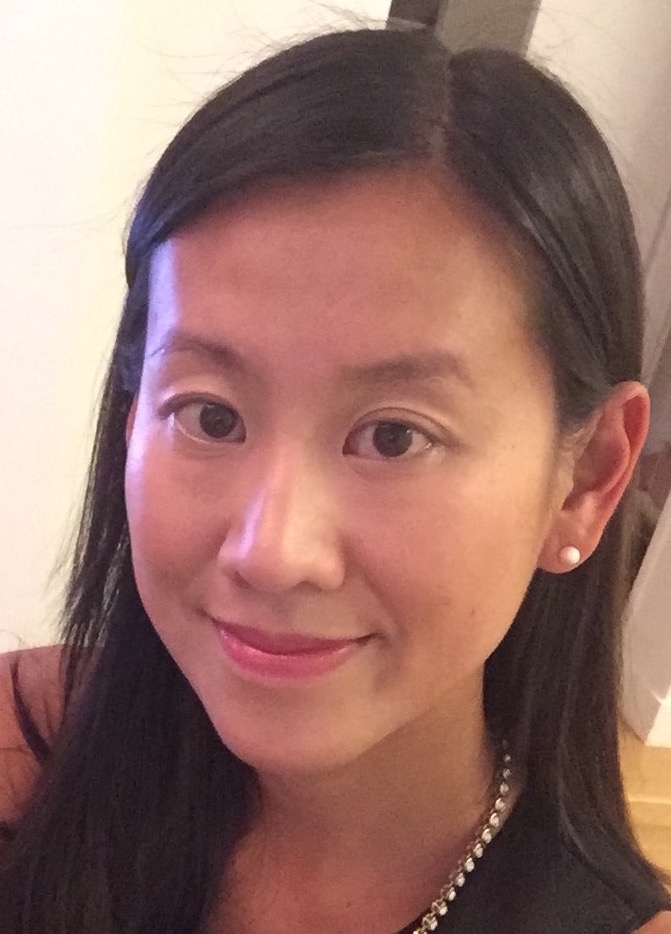
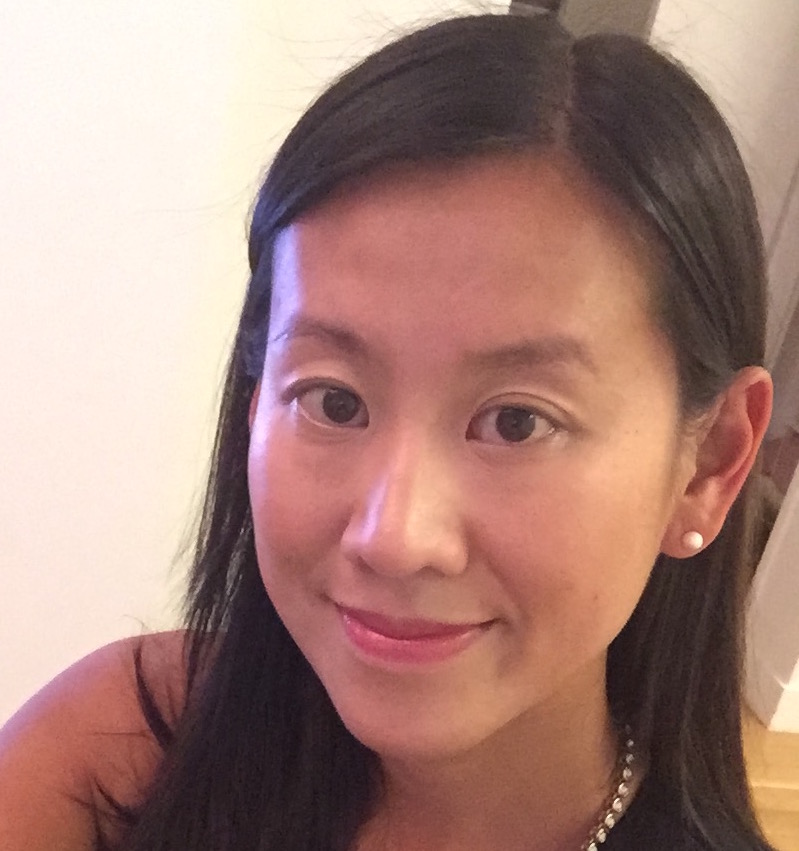
change photo dimensions to square

diff --git a/index.html b/index.html
@@ -27,7 +27,7 @@ sitemap:
 
 				<!-- Intro -->
 					<div id="intro">
-                        <h2 class="site-title">Chi-Ying &nbsp;Leung</h2><br /><br />
+                        <h2 class="site-title">Chi-Ying &nbsp;Leung</h2><br />
                         <img src="{{ "/images/mainpic.jpg" | absolute_url }}" class="mainpic" alt="" /><br />
 
 						<p>Massively is an HTML5 website theme designed by <a href="https://twitter.com/ajlkn">@ajlkn</a> for <a href="https://html5up.net">HTML5 UP</a><br />
